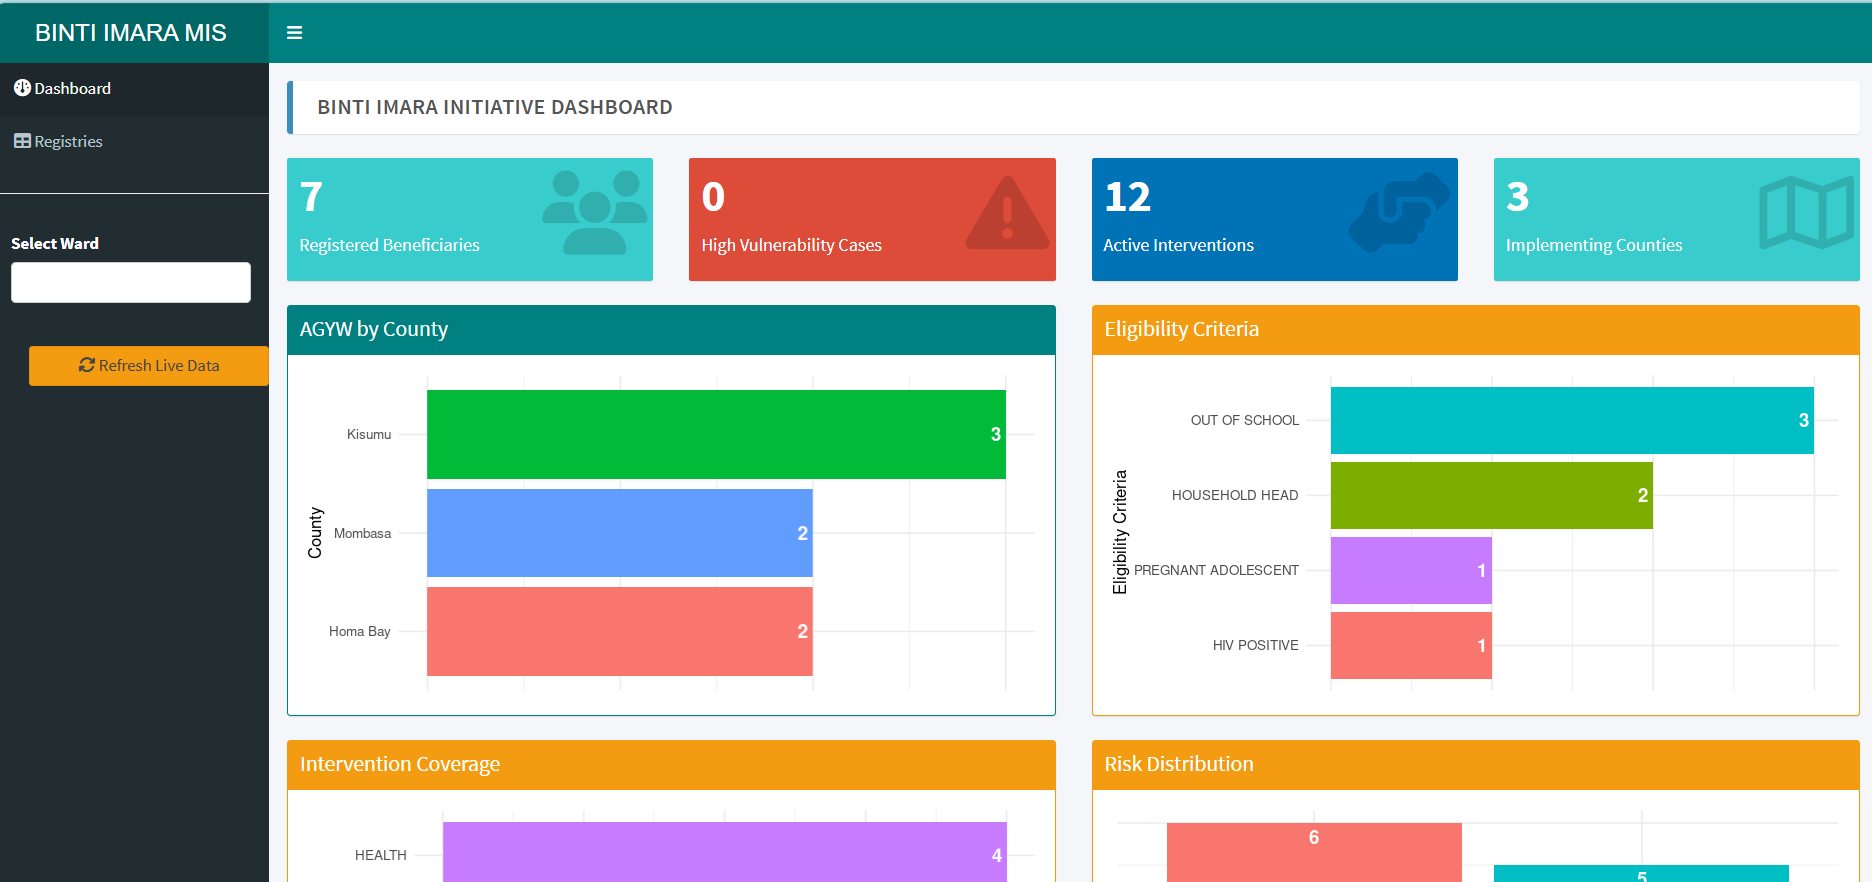
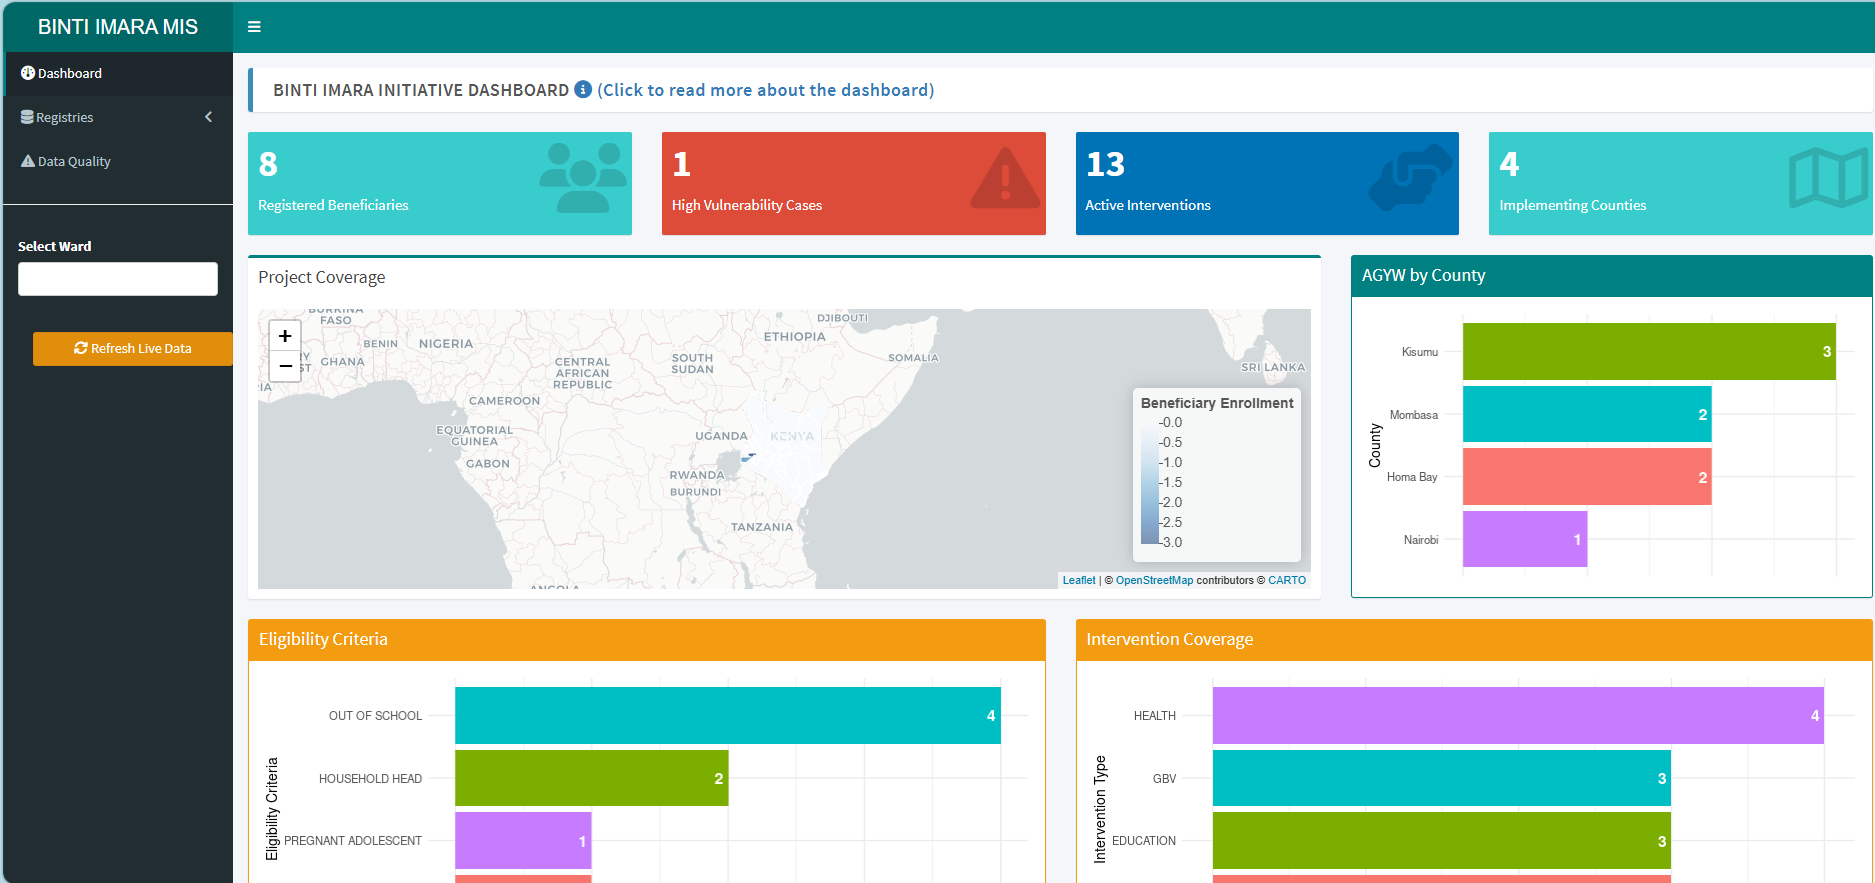
replace dashboard image with worfklow chart

diff --git a/_site/projects.html b/_site/projects.html
@@ -627,8 +627,8 @@ gtag('config', 'G-XNMP9FSHZH', { 'anonymize_ip': true});
         <li>Real-time monitoring indicators</li>
         <li>Automated reporting summaries</li>
       </ul>
-  
-      <img src="images/binti_dashboard.png" alt="Binti Imara Dashboard">
+      
+      <img src="images/bii_worflow.png" alt="Binti Imara Workflow">
   
       <hr>
   
@@ -940,7 +940,7 @@ gtag('config', 'G-XNMP9FSHZH', { 'anonymize_ip': true});
     }
       var localhostRegex = new RegExp(/^(?:http|https):\/\/localhost\:?[0-9]*\//);
       var mailtoRegex = new RegExp(/^mailto:/);
-        var filterRegex = new RegExp("https:\/\/roy-mwavita0\.github\.io\/portfolio\/");
+        var filterRegex = new RegExp('/' + window.location.host + '/');
       var isInternal = (href) => {
           return filterRegex.test(href) || localhostRegex.test(href) || mailtoRegex.test(href);
       }

diff --git a/_site/about.html b/_site/about.html
@@ -185,7 +185,7 @@ gtag('config', 'G-XNMP9FSHZH', { 'anonymize_ip': true});
     }
       var localhostRegex = new RegExp(/^(?:http|https):\/\/localhost\:?[0-9]*\//);
       var mailtoRegex = new RegExp(/^mailto:/);
-        var filterRegex = new RegExp("https:\/\/roy-mwavita0\.github\.io\/portfolio\/");
+        var filterRegex = new RegExp('/' + window.location.host + '/');
       var isInternal = (href) => {
           return filterRegex.test(href) || localhostRegex.test(href) || mailtoRegex.test(href);
       }

diff --git a/_site/dashboards.html b/_site/dashboards.html
@@ -503,7 +503,7 @@ gtag('config', 'G-XNMP9FSHZH', { 'anonymize_ip': true});
     }
       var localhostRegex = new RegExp(/^(?:http|https):\/\/localhost\:?[0-9]*\//);
       var mailtoRegex = new RegExp(/^mailto:/);
-        var filterRegex = new RegExp("https:\/\/roy-mwavita0\.github\.io\/portfolio\/");
+        var filterRegex = new RegExp('/' + window.location.host + '/');
       var isInternal = (href) => {
           return filterRegex.test(href) || localhostRegex.test(href) || mailtoRegex.test(href);
       }

diff --git a/_site/digest.html b/_site/digest.html
@@ -597,7 +597,7 @@ gtag('config', 'G-XNMP9FSHZH', { 'anonymize_ip': true});
     }
       var localhostRegex = new RegExp(/^(?:http|https):\/\/localhost\:?[0-9]*\//);
       var mailtoRegex = new RegExp(/^mailto:/);
-        var filterRegex = new RegExp("https:\/\/roy-mwavita0\.github\.io\/portfolio\/");
+        var filterRegex = new RegExp('/' + window.location.host + '/');
       var isInternal = (href) => {
           return filterRegex.test(href) || localhostRegex.test(href) || mailtoRegex.test(href);
       }

diff --git a/_site/index.html b/_site/index.html
@@ -546,7 +546,7 @@ gtag('config', 'G-XNMP9FSHZH', { 'anonymize_ip': true});
     }
       var localhostRegex = new RegExp(/^(?:http|https):\/\/localhost\:?[0-9]*\//);
       var mailtoRegex = new RegExp(/^mailto:/);
-        var filterRegex = new RegExp("https:\/\/roy-mwavita0\.github\.io\/portfolio\/");
+        var filterRegex = new RegExp('/' + window.location.host + '/');
       var isInternal = (href) => {
           return filterRegex.test(href) || localhostRegex.test(href) || mailtoRegex.test(href);
       }

diff --git a/_site/newsletter.html b/_site/newsletter.html
@@ -456,7 +456,7 @@ gtag('config', 'G-XNMP9FSHZH', { 'anonymize_ip': true});
     }
       var localhostRegex = new RegExp(/^(?:http|https):\/\/localhost\:?[0-9]*\//);
       var mailtoRegex = new RegExp(/^mailto:/);
-        var filterRegex = new RegExp("https:\/\/roy-mwavita0\.github\.io\/portfolio\/");
+        var filterRegex = new RegExp('/' + window.location.host + '/');
       var isInternal = (href) => {
           return filterRegex.test(href) || localhostRegex.test(href) || mailtoRegex.test(href);
       }